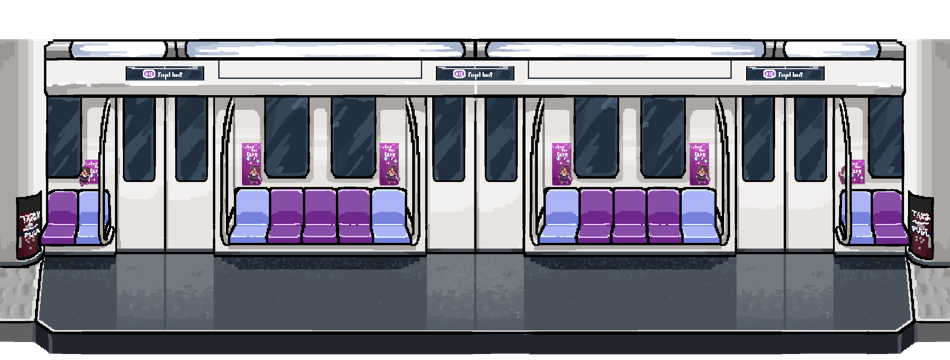
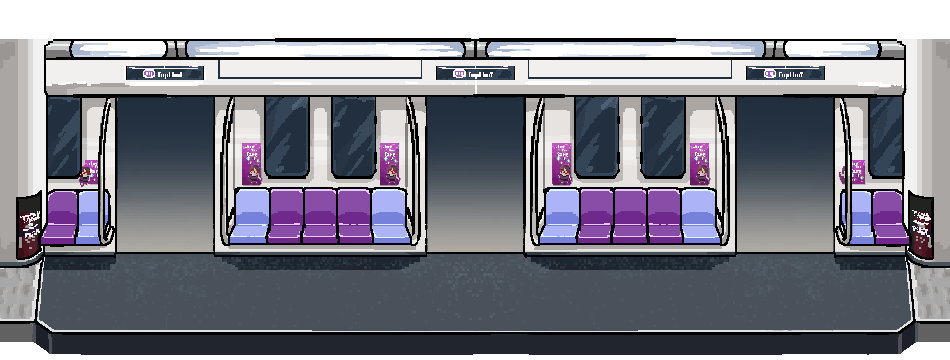
mycause

diff --git a/js/welcome.js b/js/welcome.js
@@ -26,7 +26,7 @@ scene("welcome", () => {
     scale(0.3),
   ])
 
-  addMenuButton("ourCauseBtn", vec2(166, 272))
+  const causeBtn = addMenuButton("ourCauseBtn", vec2(166, 272))
 
   add([
     sprite("enter_label"),
@@ -45,6 +45,11 @@ scene("welcome", () => {
 
   addMenuButton("credBtn", vec2(166, 312)).onClick(credits.open)
   addMenuButton("shopBtn", vec2(166, 232)).onClick(shop.open)
+
+  // a real tap is needed here, or phones can block the new tab
+  const isOnCauseBtn = (gamePos) => !credits.isOpen() && !shop.isOpen() && causeBtn.hasPoint(gamePos)
+  const stopListening = listenForRealTap(isOnCauseBtn, () => window.open(CAUSE_URL, "_blank", "noopener"))
+  onSceneLeave(stopListening)
 
   onClick(() => {
     if (get("btn", { recursive: true }).some((b) => b.opacity !== 0 && b.isHovering())) btnSound()

diff --git a/js/constants.js b/js/constants.js
@@ -21,6 +21,8 @@ const PANEL_SHADOW = [150, 130, 175]
 const PANEL_TOO_EXPENSIVE = [150, 150, 160]
 
 
+const CAUSE_URL = "https://www.instagram.com/thepenguin.express/"
+
 const SURVEY_URL = "https://docs.google.com/forms/d/e/1FAIpQLSdB_4yMGxC1nSqTwnA7fEwfHtAHqR23imujGzt9xQvTz8k9dQ/viewform?usp=sharing&ouid=101018496724856667820"
 const SURVEY_FIRST_REWARD = 300
 const SURVEY_REPEAT_REWARD = 20
